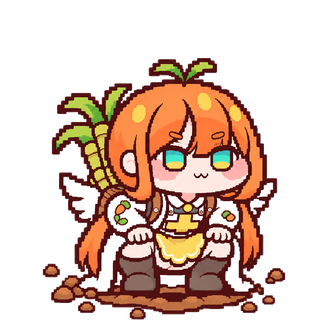
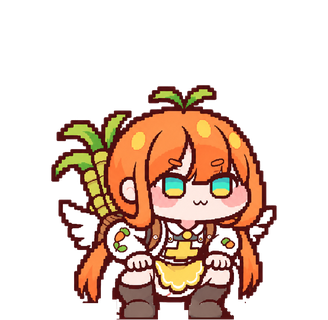
엉덩방아: 살짝 솟았다가 바닥으로 떨어지게(떠 있는 높이 따로), 일어날 때 발밑 흙 제거

diff --git a/android/app/src/main/java/com/oddfactory/carrot/Stage.java b/android/app/src/main/java/com/oddfactory/carrot/Stage.java
@@ -27,12 +27,15 @@ import java.util.Set;
 final class Stage extends View {
     // ---- 모션 정의(프레임 이름, 표시 시간 ms) ----
     static final class Clip {
-        final String[] f; final int[] ms; final float[] sy; final int total;
+        final String[] f; final int[] ms; final float[] sy, dy; final int total;
         /** ("프레임", ms, ...). "프레임@0.3"은 발 기준 세로 배율(땅에서 쑥 튀어나오는 눌림·늘어남). */
         Clip(Object... a) {
-            f = new String[a.length / 2]; ms = new int[a.length / 2]; sy = new float[a.length / 2]; int t = 0;
+            f = new String[a.length / 2]; ms = new int[a.length / 2]; sy = new float[a.length / 2]; dy = new float[a.length / 2]; int t = 0;
             for (int i = 0; i < f.length; i++) {
-                String n = (String) a[i * 2]; int k = n.indexOf('@');
+                String n = (String) a[i * 2];
+                int u = n.indexOf('^'); // "프레임^0.15" = 키의 15%만큼 위로 떠 있음
+                if (u >= 0) { dy[i] = Float.parseFloat(n.substring(u + 1)); n = n.substring(0, u); }
+                int k = n.indexOf('@');
                 f[i] = k < 0 ? n : n.substring(0, k); sy[i] = k < 0 ? 1f : Float.parseFloat(n.substring(k + 1));
                 ms[i] = (Integer) a[i * 2 + 1]; t += ms[i];
             }
@@ -55,7 +58,9 @@ final class Stage extends View {
     static final Clip GRAB = new Clip("wn_lower1", 160, "wn_lower2", 150, "wn_grab_v2", 220);
     static final Clip TUG = new Clip("wn_grab_v2", 220, "wn_lower2", 140);
     // 텃밭에서 뽑기 성공: 쑥 뽑음 → 뒤로 넘어가며 물러남 → 엉덩방아 → 주저앉아 웃음 → 일어남
-    static final Clip FALL = new Clip("wn_pop", 160, "fall_0", 180, "fall_1", 520, "fall_2", 900, "e05_rise", 220, "master", 200);
+    // 쑥 뽑힌 반동으로 살짝 솟았다가(떠 있음) 엉덩방아로 바닥에 털썩
+    static final Clip FALL = new Clip("wn_pop", 120, "wn_pop^0.05", 80, "fall_0^0.13", 90, "fall_0^0.16", 90, "fall_0^0.09", 80,
+            "fall_1@0.92", 70, "fall_1", 450, "fall_2", 900, "e05_rise", 220, "master", 200);
     static final Clip POP = new Clip("wn_pop", 700, "wn_lower2", 140, "wn_lower1", 160, "master", 200);
 
     // 시작: 새싹 → 머리 뿅 → 혀 낼름 → 손 짚고 → 일어남 / 종료: 반대로 쏙 들어감
@@ -704,7 +709,9 @@ final class Stage extends View {
         // 그림은 오른쪽을 보고 있다 → 왼쪽으로 걸을 때 좌우 반전
         boolean flip = (s == S.WALK || s == S.BARROW_OUT) && !faceRight;
         long t = SystemClock.uptimeMillis() - t0;
-        float sy = s == S.ENTER ? ENTER.sy[ENTER.idx(t, false)] : s == S.EXIT ? EXIT.sy[EXIT.idx(t, false)] : 1f;
+        float sy = s == S.ENTER ? ENTER.sy[ENTER.idx(t, false)] : s == S.EXIT ? EXIT.sy[EXIT.idx(t, false)]
+                : (s == S.POP && act == FALL) ? FALL.sy[FALL.idx(t, false)] : 1f;
+        if (s == S.POP && act == FALL) { float lift = FALL.dy[FALL.idx(t, false)] * h; top -= lift; }
         c.save();
         if (flip) c.scale(-1, 1, x, y);
         if (sy != 1f) c.scale(1, sy, x, y);

diff --git a/tools/build_web.py b/tools/build_web.py
@@ -63,7 +63,9 @@ MOTIONS = [
     ("delete_fall", "삭제 → 잡초 뽑고 엉덩방아", [
         ("master", 400, True), ("wn_lower1", 160, True), ("wn_lower2", 150, True), ("wn_grab_v2", 220, True),
         ("wn_lower2", 140, True), ("wn_grab_v2", 220, True), ("wn_lower2", 140, True), ("wn_grab_v2", 220, True),
-        ("wn_pop", 160, True), ("fall_0", 180, True), ("fall_1", 520, True), ("fall_2", 900, True),
+        ("wn_pop", 120, True), ("wn_pop", 80, True, "translateY(-5%)"),
+        ("fall_0", 90, True, "translateY(-13%)"), ("fall_0", 90, True, "translateY(-16%)"), ("fall_0", 80, True, "translateY(-9%)"),
+        ("fall_1", 70, True, "scale(1.06,0.92)"), ("fall_1", 450, True), ("fall_2", 900, True),
         ("e05_rise", 220, True), ("master", 400, True)]),
     ("exit", "퇴장 (앱 끌 때)", [
         ("master", 400, True), ("e05_rise", 200, True), ("e04_knee", 200, True), ("e03_hands", 200, True),
